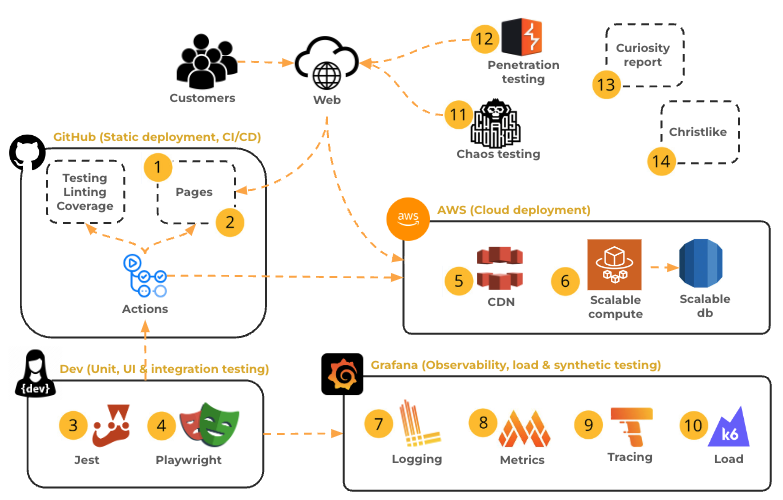
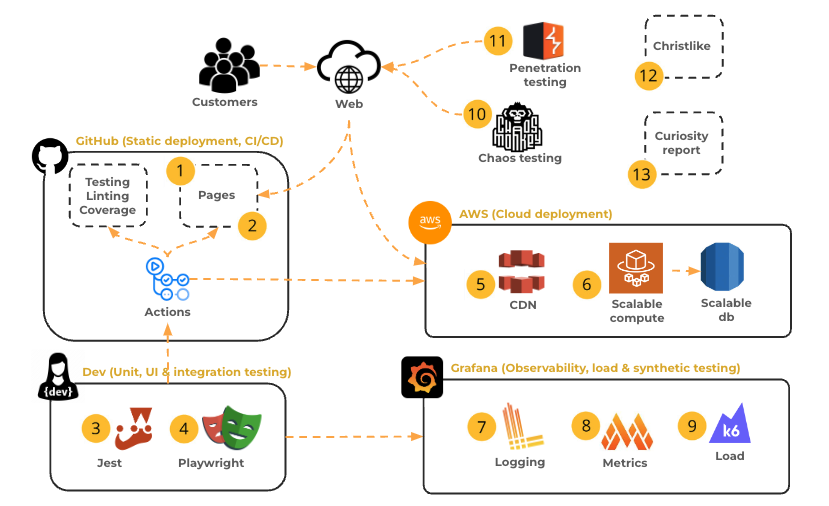
removed(trace) moved all deliverables down

diff --git a/instruction/modules.md b/instruction/modules.md
@@ -72,12 +72,6 @@
 - 🟢 [AWS Cloud Formation](awsCloudFormation/awsCloudFormation.md)
 - ☑ 🟢 [JWT Pizza Service infrastructure automation](jwtPizzaServiceInfrastructureAutomation/jwtPizzaServiceInfrastructureAutomation.md)
 
-## Serverless
-
-- ❌ [Serverless](serverless/serverless.md)
-- ❌ [AWS API Gateway](awsApiGateway/awsApiGateway.md)
-- ❌ [AWS Lambda](awsLambda/awsLambda.md)
-
 ## Deployment strategies
 
 - 🚧 [Versioning](versioning/versioning.md)
@@ -101,9 +95,6 @@
 - 🚧 [Logging](logging/logging.md)
 - ☑ 🟢 [Grafana logging](grafanaLogging/grafanaLogging.md)
 - ☑ 🟢 [⓼ Logging: JWT Pizza Service](deliverable8Logging/deliverable8Logging.md)
-- ❌ Distributed tracing
-- ❌ [Grafana Tempo](grafanaTempo/grafanaTempo.md)
-- ❌ ⓽ Tracing - Provide execution tracing with Grafana Tempo
 - 🟢 [Grafana annotations](grafanaAnnotations/grafanaAnnotations.md)
 - ☑ 🟢 [Synthetic testing](syntheticTesting/syntheticTesting.md)
 
@@ -112,7 +103,7 @@
 - 🚧 [E2E testing](e2eTesting/e2eTesting.md)
 - 🟢 [Load testing](loadTesting/loadTesting.md)
 - 🔵 [Grafana K6](grafanaK6/grafanaK6.md)
-- 🔵 [⓾ Load testing: JWT Pizza Service](deliverable10LoadTesting/deliverable10LoadTesting.md)
+- 🔵 [⓽ Load testing: JWT Pizza Service](deliverable9LoadTesting/deliverable9LoadTesting.md)
 - 🟢 [Status](statusReporting/statusReporting.md)
 
 ## Failure management
@@ -126,17 +117,17 @@
 - 🚧 SLO, RTO, RPO
 - 🟢 [Chaos testing](chaosTesting/chaosTesting.md)
 - 🟢 [Incident report](incidentReport/incidentReport.md)
-- ☑ 🟢 [⓫ Chaos testing: JWT Pizza](deliverable11ChaosTesting/deliverable11ChaosTesting.md)
+- ☑ 🟢 [⓾ Chaos testing: JWT Pizza](deliverable10ChaosTesting/deliverable10ChaosTesting.md)
 
 ## Penetration testing
 
 - 🟢 [OWASP top 10](owaspTop10/owaspTop10.md)
 - 🔵 [Penetration testing](penetrationTesting/penetrationTesting.md)
 - ☑ 🟢 [Burp Suite](burpSuite/burpSuite.md)
-- ☑ 🟢 [⓬ Penetration testing: JWT Pizza](deliverable11PenetrationTesting/deliverable11PenetrationTesting.md)
+- ☑ 🟢 [⓫ Penetration testing: JWT Pizza](deliverable11PenetrationTesting/deliverable11PenetrationTesting.md)
 
 ## Conclusion
 
+- ☑ 🟢 [⓬ Christlike introspection conclusion](deliverable11ChristlikeLearning/deliverable11ChristlikeLearning.md)
 - ⓭ Curiosity report conclusion
-- ☑ 🟢 [⓮ Christlike introspection conclusion](christlikeLearningConclusion/christlikeLearningConclusion.md)
 - ☑ 🟢 [Wrap up](wrapUp/wrapUp.md)

diff --git a/courseDevelopmentNotes.md b/courseDevelopmentNotes.md
@@ -4,6 +4,8 @@
 
 Have a login ID and a action ID. The action ID is what you use for grading. An admin user can change their Action ID. Everyone else the two IDs are always the same.
 
+Fix the deliverable steps to reflect the autograder usage.
+
 Change instruction for when they fork, add ta as collaborator
 
 - ☑ 🟢 [⓵ Manual deployment: JWT Pizza](deliverable1ManualDeploy/deliverable1ManualDeploy.md)
@@ -314,7 +316,7 @@ They have 24 hours to correct. Every hour after the first 24 hours deducts 5%.
 - Identification and Authentication Failures
   - Weak passwords
 - Broken Access Control
-  - URL bypass (docs)
+  - URL bypass (docs) (robots.txt)
   - delete franchise
 - Security Misconfiguration
   - stack in errors,
@@ -326,3 +328,16 @@ They have 24 hours to correct. Every hour after the first 24 hours deducts 5%.
   ```sh
   curl -X PUT $host/api/auth/4 -d '{"email":"f@jwt.com'\'' WHERE id=3333; select 1+1; -- "}' -H 'Content-Type: application/json' -H "Authorization: bearer $token" | jq '.'
   ```
+
+## Known security vulnerabilities
+
+1. Inject on order description
+1. Escalation on add user with a given role
+1. Reveals config `server: Express`
+1. If you use the same name for creating a franchise it will leak the SQL error
+1. Returns code stack with error
+1. Docs page has the demo data user's email and password
+1. Does not use cookies
+1. The default jwtSecret is not changed in their `config.js` file.
+1. Deployment will log db credentials when a connection failure happens.
+1. There is a default admin user with an email and password displayed in the docs

diff --git a/instruction/deliverable10ChaosTesting/deliverable10ChaosTesting.md b/instruction/deliverable10ChaosTesting/deliverable10ChaosTesting.md
@@ -52,7 +52,7 @@ https://github.com/youraccountname/jwt-pizza/tree/main/incidentReports
 
 ### Rubric
 
-| Percent | Item                                                                                                       |
-| ------- | ---------------------------------------------------------------------------------------------------------- |
-| 80%     | Timely response and correction to chaos incidents. 5% is deducted for each hour that the failure persists. |
-| 20%     | Accurate and informative incident reports                                                                  |
+| Percent | Item                                                                                                                             |
+| ------- | -------------------------------------------------------------------------------------------------------------------------------- |
+| 80%     | Timely response and correction to chaos incidents. After first 12 hours, 5% is deducted for each hour that the failure persists. |
+| 20%     | Accurate and informative incident reports                                                                                        |

diff --git a/instruction/grafanaK6/grafanaK6.md b/instruction/grafanaK6/grafanaK6.md
@@ -3,7 +3,7 @@
 ![K6 logo](k6Logo.png)
 
 In 2000, a pair of game developers were working on an MMORPG (massively multiplayer online role-playing game). The demands of such a game required them to invest in load testing tools and design. This eventually led them to create a consulting company that helped others conduct effective load testing with their applications.
-Eventually, in 2016, they took all the best practices they had learned and built an open source tool named K6 and sold it as a SaaS (software as a service) offering. In 2021, K6 was acquired by Grafana Labs and became part of Grafana Cloud.
+Eventually, in 2016, they took all the best practices they had learned and built an open source SaaS offering named K6. In 2021, K6 was acquired by Grafana Labs and became part of Grafana Cloud.
 
 ## Run a test on a sample application
 

diff --git a/instruction/penetrationTesting/penetrationTesting.md b/instruction/penetrationTesting/penetrationTesting.md
@@ -17,7 +17,7 @@ Taking security seriously means taking penetration testing seriously. Don't let 
 
 > “Constant vigilance”
 >
-> — Barty Crouch Jr. (_Impersonating Mad-Eye Moody_)
+> — Barty Crouch Jr. (_man-in-the-middle attack on Mad-Eye Moody_)
 
 ## Putting on your white hat
 
